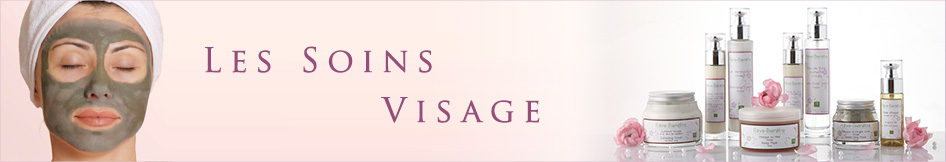
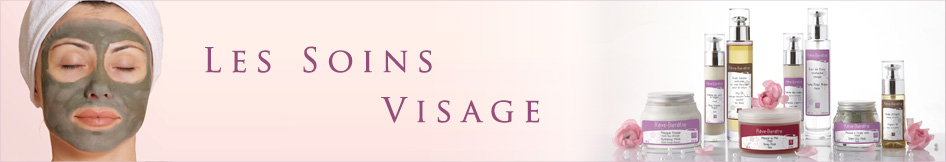
MAJ visuel slides gammes + bandeau gammes

Changed region(s): [[0.6438, 0.0617, 1.0, 0.9877], [0.6744, 0.6173, 0.7051, 0.679], [0.981, 0.9877, 1.0, 1.0]]

diff --git a/www/soins-visage.htm b/www/soins-visage.htm
@@ -121,7 +121,6 @@
 					<li class="produits"><a href="soins-visage-produit-14.htm"><img src="images/produits/masque-karite-fleur-oranger.jpg" alt="Masque visage Karité Fleur d'Oranger - 100 ml" /><div class="caption"><strong>Masque visage Karité Fleur d'Oranger</strong>100 ml<div class="breaker"></div><div class="best-seller">Meilleure vente !</div><div class="nouveaute">Nouveauté !</div></div></a></li>
 					<li class="produits"><a href="soins-visage-produit-13.htm"><img src="images/produits/gommage-visage-hassoul-myrte.jpg" alt="Gommage visage Ghassoul Myrte - 100 ml" /><div class="caption"><strong>Gommage visage Ghassoul Myrte</strong>100 ml<div class="breaker"></div><div class="best-seller">Meilleure vente !</div><div class="nouveaute">Nouveauté !</div></div></a></li>
 					<li class="produits"><a href="soins-visage-produit-9.htm"><img src="images/produits/masque-miel.jpg" alt="Masque au miel - 250 ml" /><div class="caption"><strong>Masque au miel</strong>250 ml<div class="breaker"></div><!--<div class="best-seller">Meilleure vente !</div>--></div></a></li>
-					<!--<li class="produits"><a href="soins-visage-produit-10.htm"><img src="../images/produits/serum-visage.jpg" alt="Face serum - 10 ml" /><div class="caption"><strong>Face serum</strong>10 ml<div class="breaker"></div><div class="best-seller">Best seller !</div></div></a></li>-->
 					<li class="produits"><a href="soins-visage-produit-11.htm"><img src="images/produits/masque-argile-verte.jpg" alt="Masque à l'argile verte - Fleur de lotus - 100 gr" /><div class="caption"><strong>Masque à l'argile verte - Fleur de lotus</strong>100 gr<div class="breaker"></div><!--<div class="best-seller">Meilleure vente !</div>--></div></a></li>
 					<!--<li class="produits"><a href="soins-visage-produit-5.htm"><img src="images/produits/Exfoliant-visage.jpg" alt="Exfoliant visage - 200 ml" /><div class="caption"><strong>Exfoliant visage</strong>200 ml<div class="breaker"></div><div class="best-seller">Meilleure vente !</div></div></a></li>-->
 					<!--//Masques et exfoliants visage-->
@@ -130,7 +129,7 @@
 					<li class="produits"><a href="soins-visage-produit-3.htm"><img src="images/produits/creme-de-jour-a-l'argan-50ml.jpg" alt="Crème de jour à l'argan - 50 ml" /><div class="caption"><strong>Crème de jour à l'argan</strong>50 ml<div class="breaker"></div><div class="best-seller">Meilleure vente !</div></div></a></li>
 					<li class="produits"><a href="soins-visage-produit-4.htm"><img src="images/produits/creme-anti-age-50-ml.jpg" alt="Crème anti-age - 50 ml" /><div class="caption"><strong>Crème anti-age</strong>50 ml<div class="breaker"></div><!--<div class="best-seller">Meilleure vente !</div>--></div></a></li>
 					<li class="produits"><a href="soins-visage-produit-1.htm"><img src="images/produits/huile-d'argan-100-ml.jpg" alt="Huile d'argan - 100 ml" /><div class="caption"><strong>Huile d'argan</strong>Visage, corps et cheveux<br />100 ml<div class="breaker"></div><!--<div class="best-seller">Meilleure vente !</div>--></div></a></li>
-					<li class="produits"><a href="soins-visage-produit-10.htm"><img src="images/produits/serum-visage.jpg" alt="Sérum visage - 10 ml" /><div class="caption"><strong>Sérum visage</strong>10 ml<div class="breaker"></div><!--<div class="best-seller">Meilleure vente !</div>--></div></a></li>
+					<!--<li class="produits"><a href="soins-visage-produit-10.htm"><img src="images/produits/serum-visage.jpg" alt="Sérum visage - 10 ml" /><div class="caption"><strong>Sérum visage</strong>10 ml<div class="breaker"></div><div class="best-seller">Meilleure vente !</div></div></a></li>-->
 					<li class="produits"><a href="soins-visage-produit-12.htm"><img src="images/produits/creme-mains.jpg" alt="Crème mains au beurre de karité - 50 ml" /><div class="caption"><strong>Crème mains au beurre de karité</strong>50 ml<div class="breaker"></div><!--<div class="best-seller">Meilleure vente !</div>--></div></a></li>
 					<!--//Crèmes visage et anti age-->
 					

diff --git a/www/soins-visage-cremes-anti-age.htm b/www/soins-visage-cremes-anti-age.htm
@@ -116,7 +116,7 @@
 					<li class="produits"><a href="soins-visage-produit-3.htm"><img src="images/produits/creme-de-jour-a-l'argan-50ml.jpg" alt="Crème de jour à l'argan - 50 ml" /><div class="caption"><strong>Crème de jour à l'argan</strong>50 ml<div class="breaker"></div><div class="best-seller">Meilleure vente !</div></div></a></li>
 					<li class="produits"><a href="soins-visage-produit-4.htm"><img src="images/produits/creme-anti-age-50-ml.jpg" alt="Crème anti-age - 50 ml" /><div class="caption"><strong>Crème anti-age</strong>50 ml<div class="breaker"></div><!--<div class="best-seller">Meilleure vente !</div>--></div></a></li>
 					<li class="produits"><a href="soins-visage-produit-1.htm"><img src="images/produits/huile-d'argan-100-ml.jpg" alt="Huile d'argan - 100 ml" /><div class="caption"><strong>Huile d'argan</strong>Visage, corps et cheveux<br />100 ml<div class="breaker"></div><!--<div class="best-seller">Meilleure vente !</div>--></div></a></li>
-					<li class="produits"><a href="soins-visage-produit-10.htm"><img src="images/produits/serum-visage.jpg" alt="Sérum visage - 10 ml" /><div class="caption"><strong>Sérum visage</strong>10 ml<div class="breaker"></div><!--<div class="best-seller">Meilleure vente !</div>--></div></a></li>
+					<!--<li class="produits"><a href="soins-visage-produit-10.htm"><img src="images/produits/serum-visage.jpg" alt="Sérum visage - 10 ml" /><div class="caption"><strong>Sérum visage</strong>10 ml<div class="breaker"></div><div class="best-seller">Meilleure vente !</div></div></a></li>-->
 					<li class="produits"><a href="soins-visage-produit-12.htm"><img src="images/produits/creme-mains.jpg" alt="Crème mains au beurre de karité - 50 ml" /><div class="caption"><strong>Crème mains au beurre de karité</strong>50 ml<div class="breaker"></div><!--<div class="best-seller">Meilleure vente !</div>--></div></a></li>
 					<!--//Crèmes visage et anti age-->
 				</ul>

diff --git a/www/en/soins-visage-cremes-anti-age.htm b/www/en/soins-visage-cremes-anti-age.htm
@@ -117,7 +117,7 @@
 					<li class="produits"><a href="soins-visage-produit-3.htm"><img src="../images/produits/creme-de-jour-a-l'argan-50ml.jpg" alt="Argan Oil Day Cream  - 50 ml" /><div class="caption"><strong>Argan Oil Day Cream </strong>50 ml<div class="breaker"></div><div class="best-seller">Best seller !</div></div></a></li>
 					<li class="produits"><a href="soins-visage-produit-4.htm"><img src="../images/produits/creme-anti-age-50-ml.jpg" alt="Anti-ageing cream - 50 ml" /><div class="caption"><strong>Anti-ageing cream</strong>50 ml<div class="breaker"></div><!--<div class="best-seller">Best seller !</div>--></div></a></li>
 					<li class="produits"><a href="soins-visage-produit-1.htm"><img src="../images/produits/huile-d'argan-100-ml.jpg" alt="Argan oil - 100 ml" /><div class="caption"><strong>Argan oil</strong>Face, body and hair care<br />100 ml<div class="breaker"></div><!--<div class="best-seller">Best seller !</div>--></div></a></li>
-					<li class="produits"><a href="soins-visage-produit-10.htm"><img src="../images/produits/serum-visage.jpg" alt="Face serum - 10 ml" /><div class="caption"><strong>Face serum</strong>10 ml<div class="breaker"></div><!--<div class="best-seller">Best seller !</div>--></div></a></li>
+					<!--<li class="produits"><a href="soins-visage-produit-10.htm"><img src="../images/produits/serum-visage.jpg" alt="Face serum - 10 ml" /><div class="caption"><strong>Face serum</strong>10 ml<div class="breaker"></div><div class="best-seller">Best seller !</div></div></a></li>-->
 					<li class="produits"><a href="soins-visage-produit-12.htm"><img src="../images/produits/creme-mains.jpg" alt="Hand cream - shea butter - 50 ml" /><div class="caption"><strong>Hand cream - shea butter</strong>50 ml<div class="breaker"></div><!--<div class="best-seller">Best seller !</div>--></div></a></li>
 					<!--//Crèmes visage et anti age-->
 					

diff --git a/www/en/soins-visage.htm b/www/en/soins-visage.htm
@@ -131,7 +131,7 @@
 					<li class="produits"><a href="soins-visage-produit-3.htm"><img src="../images/produits/creme-de-jour-a-l'argan-50ml.jpg" alt="Argan Oil Day Cream  - 50 ml" /><div class="caption"><strong>Argan Oil Day Cream </strong>50 ml<div class="breaker"></div><div class="best-seller">Best seller !</div></div></a></li>
 					<li class="produits"><a href="soins-visage-produit-4.htm"><img src="../images/produits/creme-anti-age-50-ml.jpg" alt="Anti-ageing cream - 50 ml" /><div class="caption"><strong>Anti-ageing cream</strong>50 ml<div class="breaker"></div><!--<div class="best-seller">Best seller !</div>--></div></a></li>
 					<li class="produits"><a href="soins-visage-produit-1.htm"><img src="../images/produits/huile-d'argan-100-ml.jpg" alt="Argan oil - 100 ml" /><div class="caption"><strong>Argan oil</strong>Face, body and hair care<br />100 ml<div class="breaker"></div><!--<div class="best-seller">Best seller !</div>--></div></a></li>
-					<li class="produits"><a href="soins-visage-produit-10.htm"><img src="../images/produits/serum-visage.jpg" alt="Face serum - 10 ml" /><div class="caption"><strong>Face serum</strong>10 ml<div class="breaker"></div><!--<div class="best-seller">Best seller !</div>--></div></a></li>
+					<!--<li class="produits"><a href="soins-visage-produit-10.htm"><img src="../images/produits/serum-visage.jpg" alt="Face serum - 10 ml" /><div class="caption"><strong>Face serum</strong>10 ml<div class="breaker"></div><div class="best-seller">Best seller !</div></div></a></li>-->
 					<li class="produits"><a href="soins-visage-produit-12.htm"><img src="../images/produits/creme-mains.jpg" alt="Hand cream - shea butter - 50 ml" /><div class="caption"><strong>Hand cream - shea butter</strong>50 ml<div class="breaker"></div><!--<div class="best-seller">Best seller !</div>--></div></a></li>
 					<!--//Crèmes visage et anti age-->
 					
